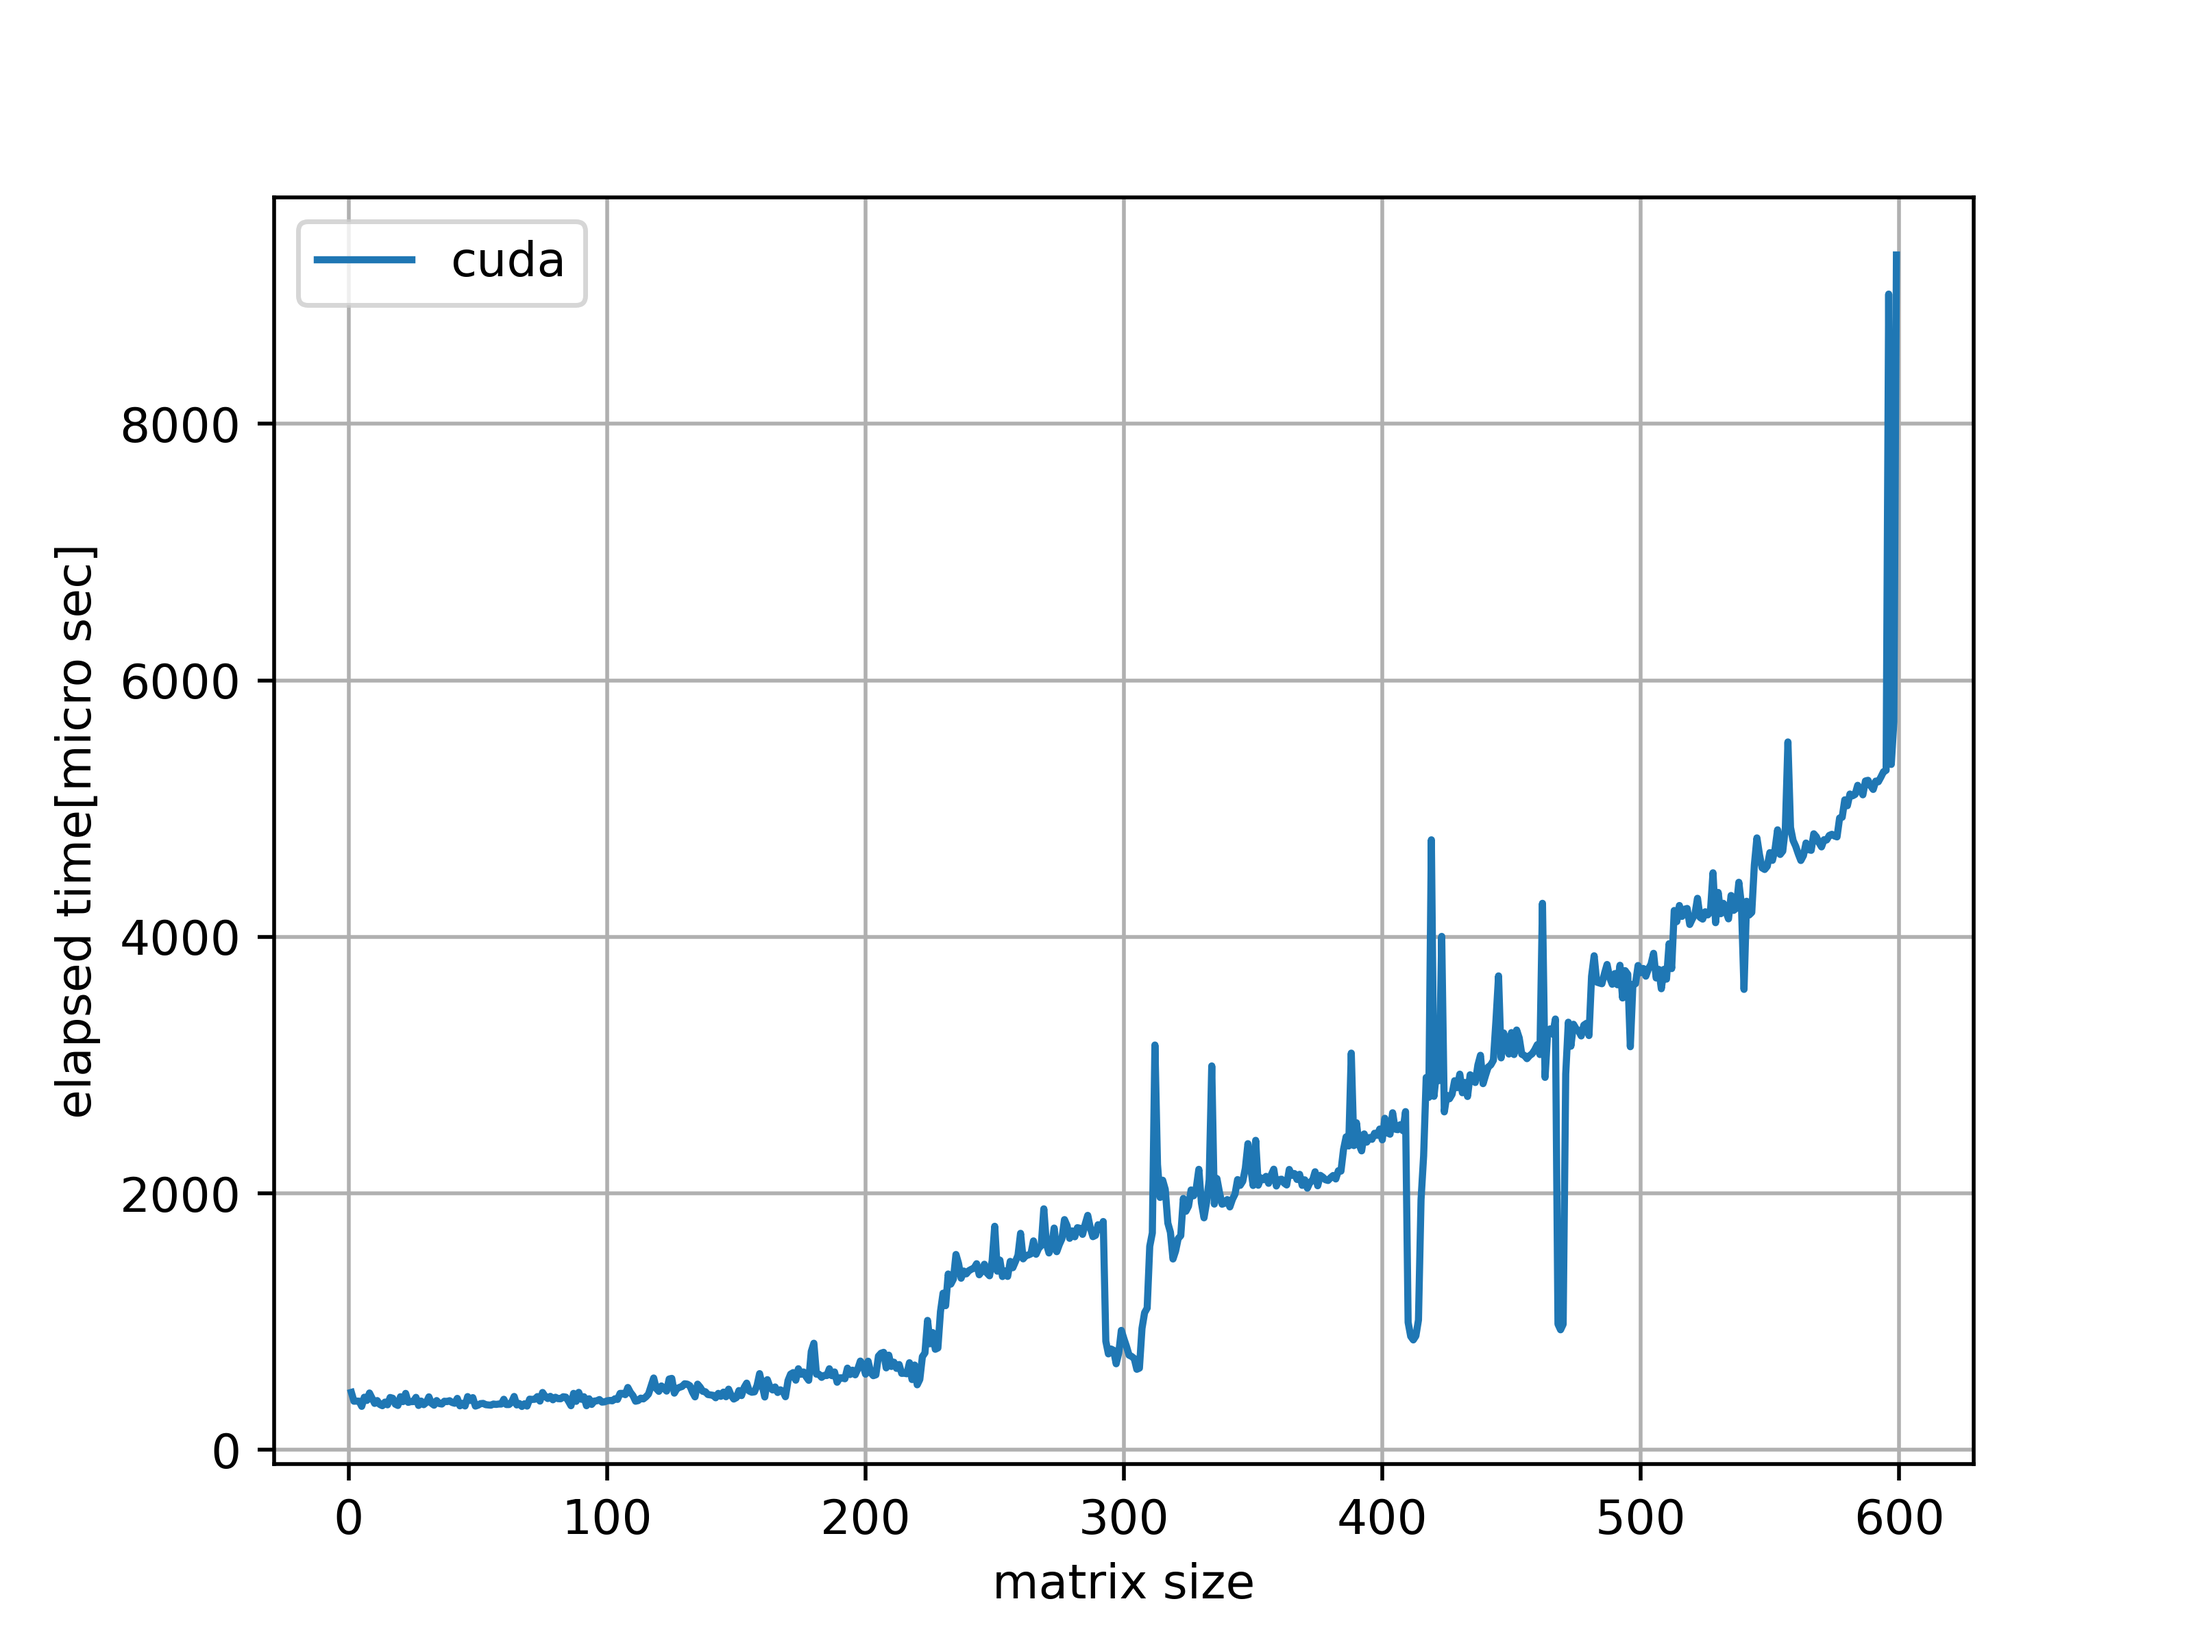
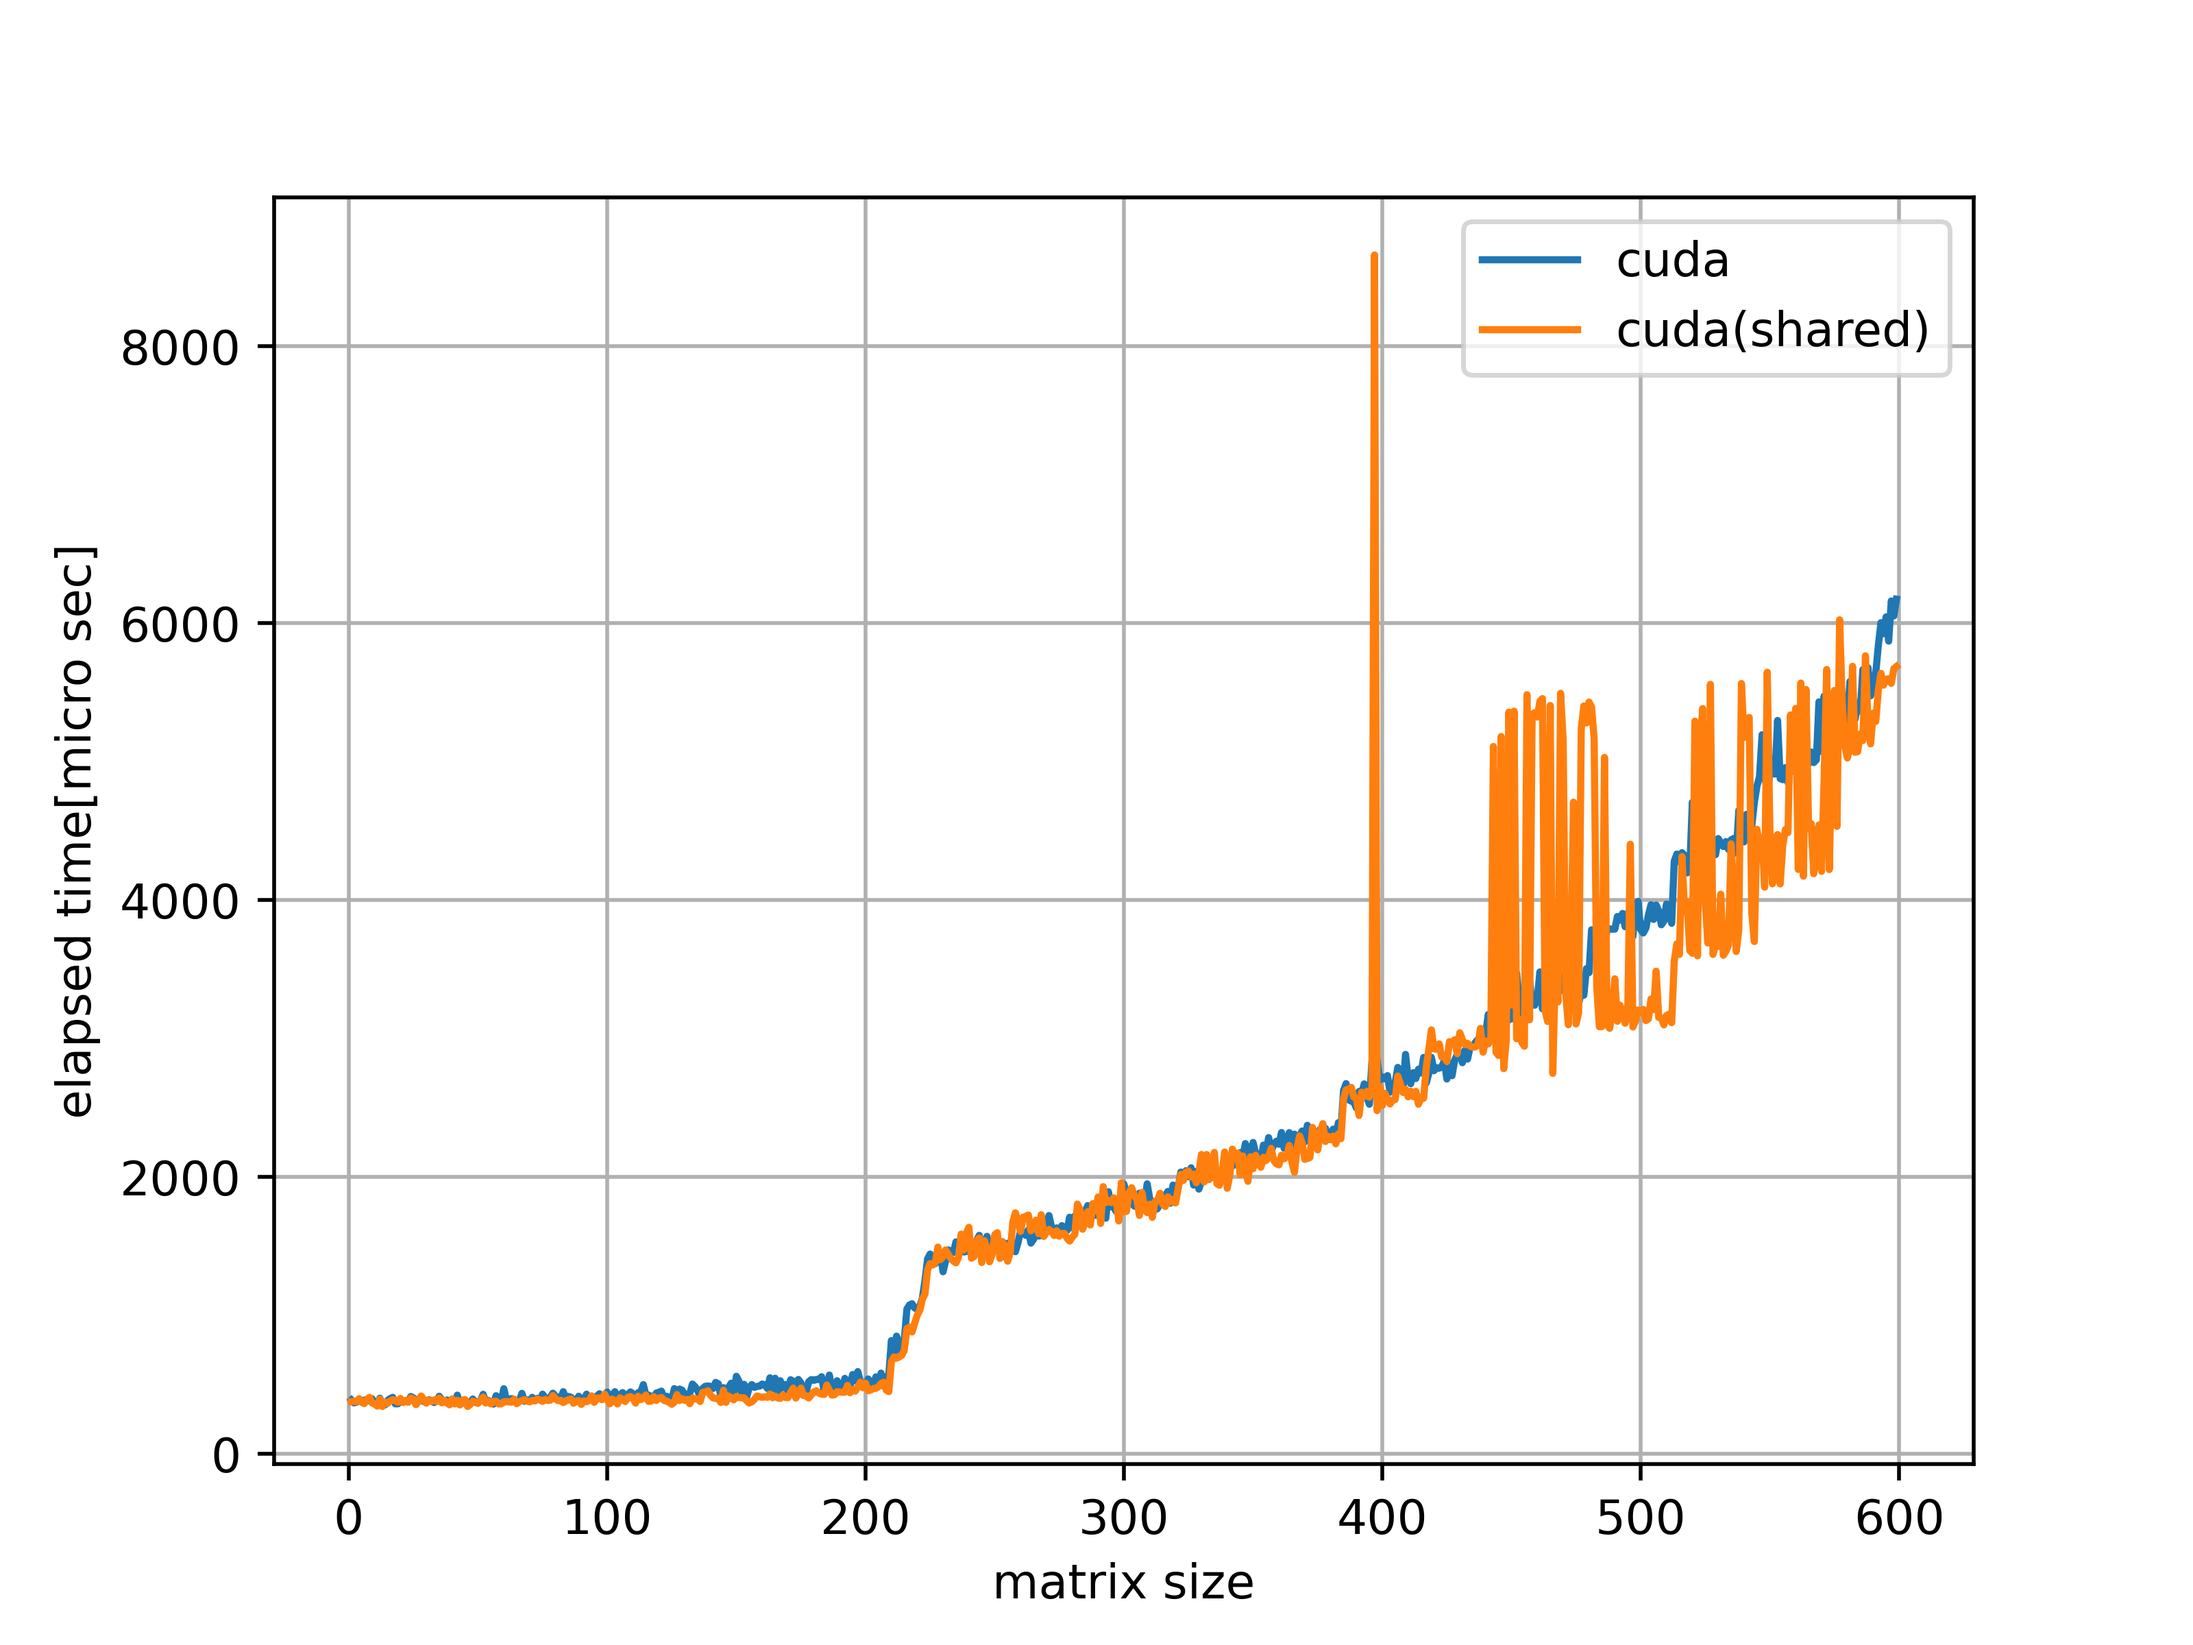
Add shared memory ver

diff --git a/data_plot/data_plot.py b/data_plot/data_plot.py
@@ -1,18 +1,20 @@
 import pandas as pd
 import matplotlib.pyplot as plt
 
-input_file = pd.read_csv("./result.csv", encoding="ms932", sep=",")
+input_file = pd.read_csv("../src/result.csv", encoding="ms932", sep=",")
 
 x = input_file[["size"]]
 
 naive = input_file[["naive"]]
 
 cuda = input_file[["cuda"]]
+cuda_shared = input_file[["cuda-shared"]]
 
 plt.figure(dpi=500)
 
 # plt.plot(x, naive, label="naive")
 plt.plot(x, cuda, label="cuda")
+plt.plot(x, cuda_shared, label="cuda(shared)")
 
 plt.xlabel("matrix size")
 plt.ylabel("elapsed time[micro sec]")
